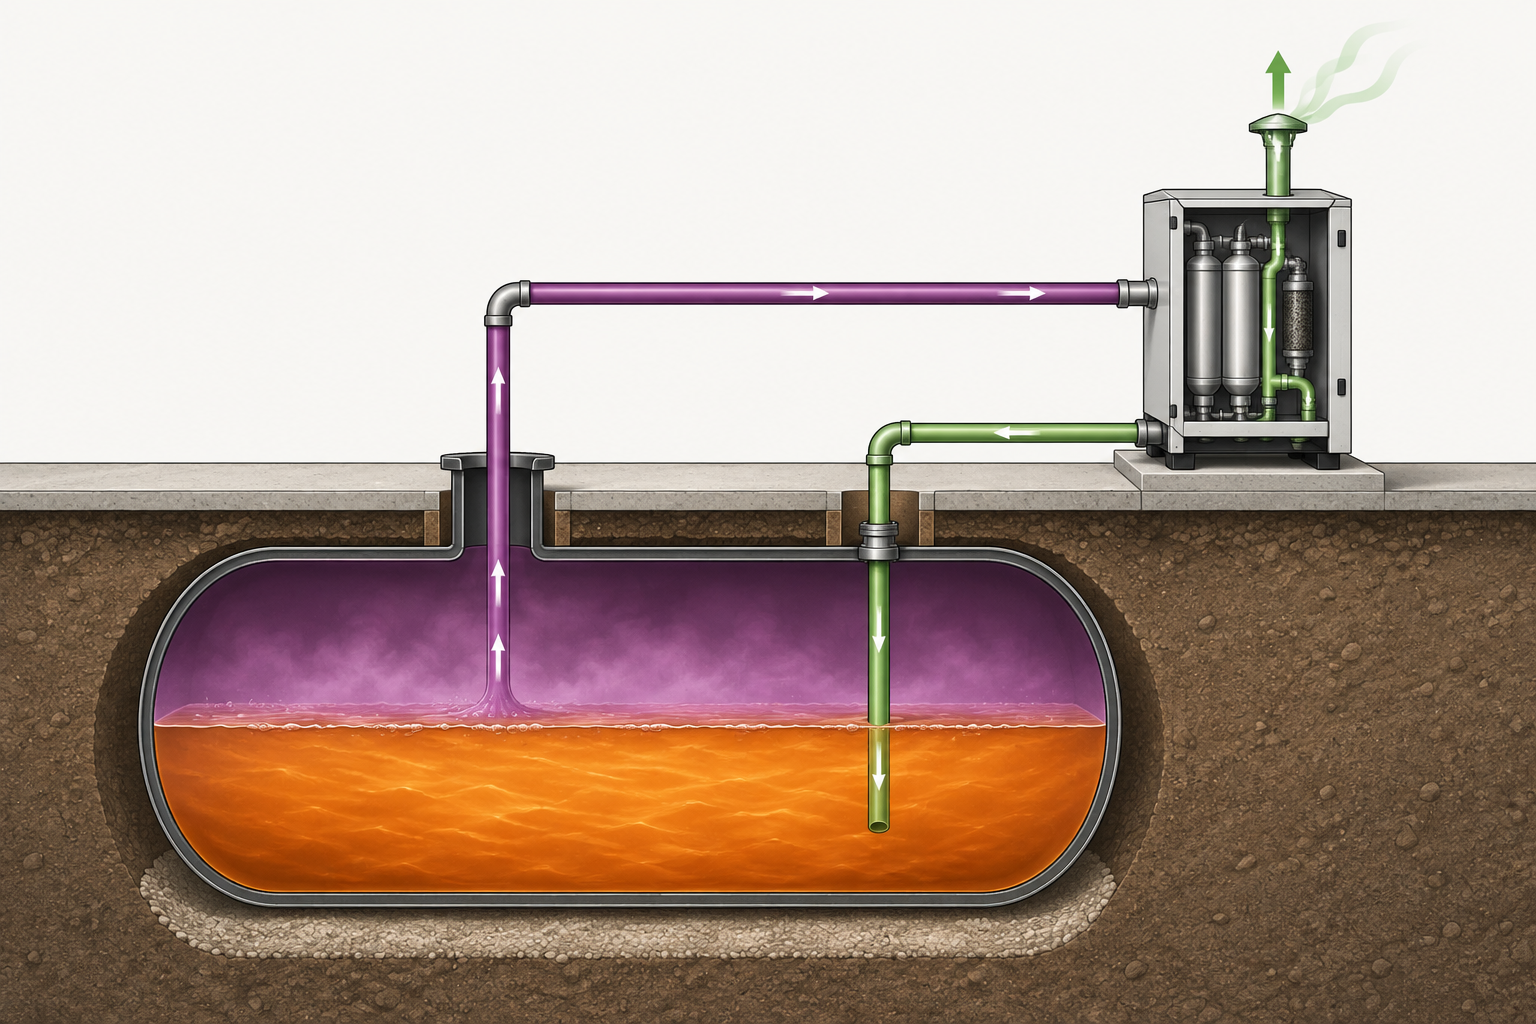
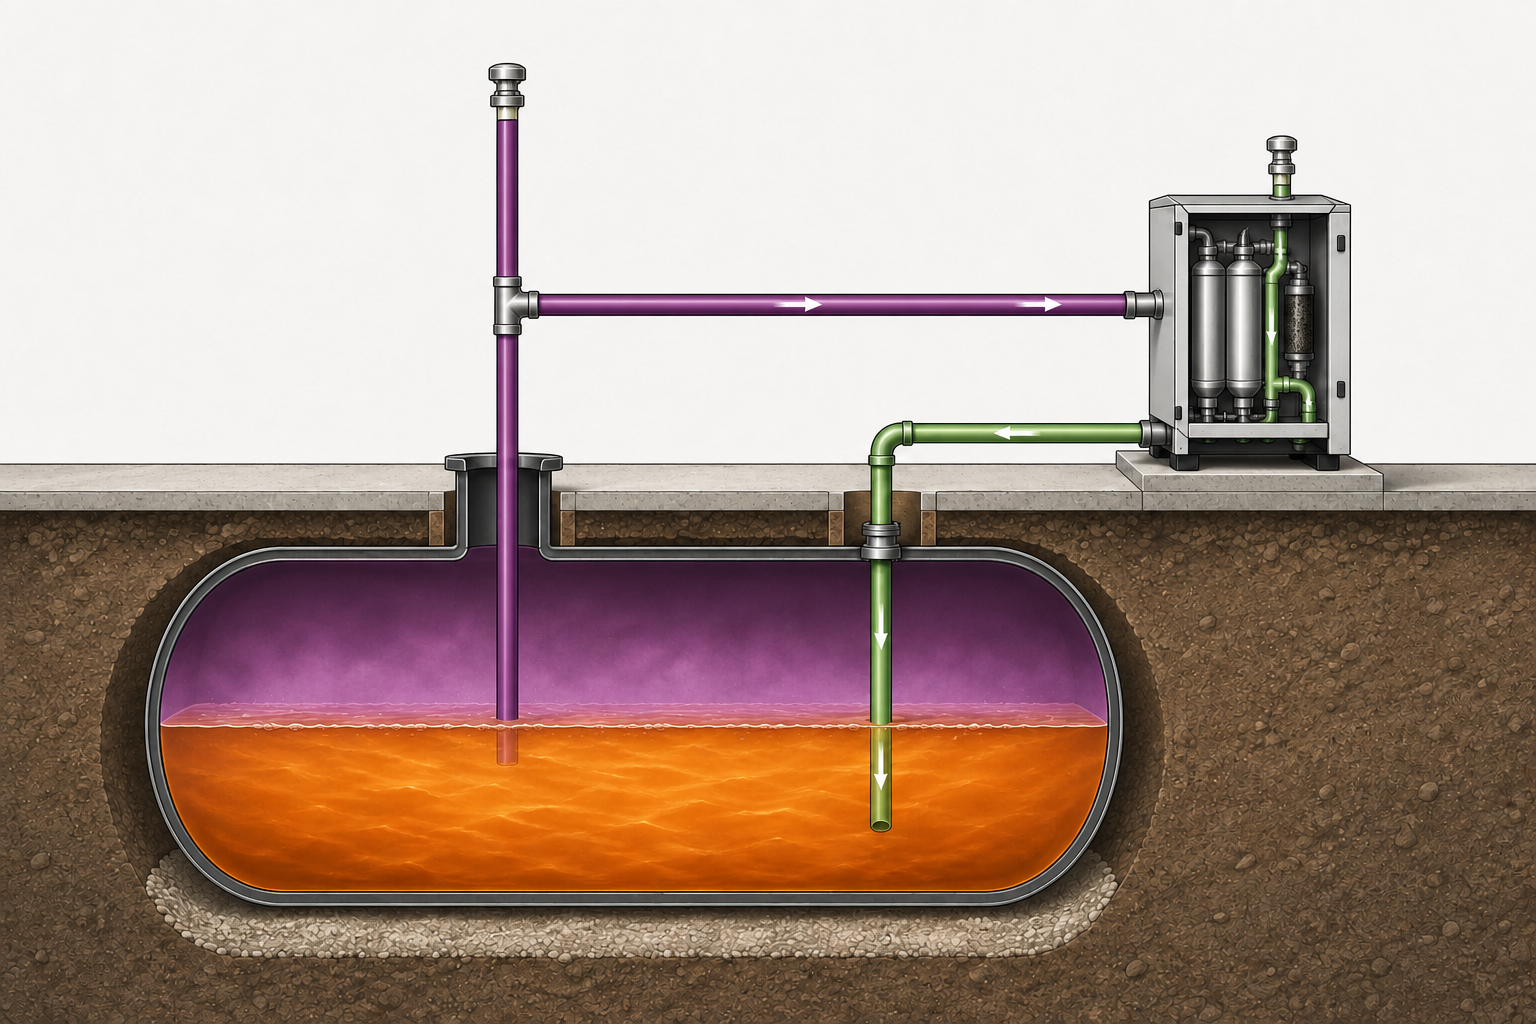
Correct tank vent diagram and transition

diff --git a/probleme.html b/probleme.html
@@ -16,7 +16,7 @@
 			<article class="problem-card"><span class="problem-icon" aria-hidden="true"><svg viewBox="0 0 24 24"><path d="M4 17h16M6 17V8h12v9M9 8V5h6v3"/><path d="M8 21h8"/></svg></span><h3>Remplissage</h3><p>Une livraison déplace les vapeurs présentes dans le réservoir.</p></article>
 			<article class="problem-card"><span class="problem-icon" aria-hidden="true"><svg viewBox="0 0 24 24"><circle cx="12" cy="12" r="8"/><path d="M12 8v4l3 2"/></svg></span><h3>Stockage</h3><p>Le phénomène continue tant que l'essence reste en cuve.</p></article>
 		</div></section>
-		<section class="problem-section problem-flow"><div class="problem-flow__copy"><p class="eyebrow">Une perte invisible</p><h2 class="page-title">Ce qui sort par l'évent ne revient pas dans le stock.</h2><p>Les vapeurs contiennent encore des hydrocarbures valorisables. Sans traitement, elles sont évacuées dans l'air au lieu de redevenir du carburant liquide.</p><div class="flow-legend"><span><i class="is-vapor"></i>Vapeurs</span><span><i class="is-fuel"></i>Carburant récupéré</span><span><i class="is-air"></i>Air traité</span></div></div><figure class="problem-diagram"><img src="./assets/schema-cuve-gevlr-ii.png" alt="Schéma montrant les vapeurs aspirées depuis l'évent d'une cuve de stockage, traitées par la GEVLR-II, puis retournées sous forme de carburant liquide" loading="lazy"><figcaption>La GEVLR-II agit sur les vapeurs de la cuve de stockage, via son réseau d'évent.</figcaption></figure></section>
+		<section class="problem-section problem-flow"><div class="problem-flow__copy"><p class="eyebrow">Une perte invisible</p><h2 class="page-title">Ce qui sort par l'évent ne revient pas dans le stock.</h2><p>Les vapeurs contiennent encore des hydrocarbures valorisables. Sans traitement, elles sont évacuées dans l'air au lieu de redevenir du carburant liquide.</p><div class="flow-legend"><span><i class="is-vapor"></i>Vapeurs</span><span><i class="is-fuel"></i>Carburant récupéré</span><span><i class="is-air"></i>Air traité</span></div></div><figure class="problem-diagram"><img src="./assets/schema-cuve-gevlr-ii.png?v=2" alt="Schéma montrant la GEVLR-II raccordée à l'évent à soupape d'une cuve de stockage et le retour du carburant liquide vers la cuve" loading="lazy"><figcaption>La GEVLR-II se raccorde à la conduite d'évent de la cuve de stockage.</figcaption></figure></section>
 		<section class="problem-section"><p class="eyebrow">Trois impacts</p><h2 class="page-title">Un enjeu économique, environnemental et humain.</h2><div class="impact-grid">
 			<article class="impact-card impact-card--fuel"><span class="impact-card__number">01</span><div><h3>Carburant perdu</h3><p>Une fraction du produit acheté quitte la cuve sans être vendue.</p></div></article>
 			<article class="impact-card impact-card--planet"><span class="impact-card__number">02</span><div><h3>Pollution de l'air</h3><p>Les COV participent à la formation d'ozone au niveau du sol et de polluants secondaires.</p></div></article>
@@ -26,7 +26,7 @@
 			<article class="risk-panel"><span class="problem-icon" aria-hidden="true"><svg viewBox="0 0 24 24"><path d="M12 3 2.8 20h18.4L12 3Z"/><path d="M12 9v5m0 3v.1"/></svg></span><p class="eyebrow">Environnement</p><h2>Les COV ne disparaissent pas.</h2><ul><li>Dégradation de la qualité de l'air</li><li>Formation d'ozone troposphérique</li><li>Effets sur la végétation et les cultures</li><li>Odeurs autour de la station</li></ul><a class="source-link" href="https://www.epa.gov/ozone-pollution-and-your-patients-health/what-ozone" target="_blank" rel="noopener">Source environnementale ↗</a></article>
 			<article class="risk-panel"><span class="problem-icon" aria-hidden="true"><svg viewBox="0 0 24 24"><path d="M12 21s-7-4.4-7-10a4 4 0 0 1 7-2.7A4 4 0 0 1 19 11c0 5.6-7 10-7 10Z"/><path d="M8 13h2l1-2 2 4 1-2h2"/></svg></span><p class="eyebrow">Santé</p><h2>Respirer ces vapeurs n'est pas anodin.</h2><ul><li>Irritation des yeux et des voies respiratoires</li><li>Maux de tête, vertiges et nausées</li><li>Effets possibles sur le système nerveux</li><li>Présence de benzène, substance cancérogène</li></ul><div class="source-links"><a class="source-link" href="https://www.inrs.fr/media.html?refINRS=ED+872" target="_blank" rel="noopener">INRS ↗</a><a class="source-link" href="https://www.who.int/publications/i/item/WHO-CED-PHE-EPE-19.4.2" target="_blank" rel="noopener">OMS ↗</a></div></article>
 		</section>
-		<section class="problem-section problem-answer"><p class="eyebrow">La réponse</p><h2 class="page-title">Récupérer avant de rejeter.</h2><div class="answer-steps"><span><b>1</b>Détecter la pression</span><span><b>2</b>Aspirer les vapeurs</span><span><b>3</b>Refroidir et condenser</span><span><b>4</b>Retourner l'essence en cuve</span></div><p>La GEVLR-II se raccorde au réseau d'évent de la cuve et fonctionne automatiquement selon les seuils définis.</p><div class="problem-actions"><a class="btn" href="./technologie.html">Découvrir la technologie</a><a class="text-link" href="./contact.html#contact-form">Demander une étude →</a></div></section>
+		<section class="problem-section problem-answer"><p class="eyebrow">Et maintenant&nbsp;?</p><h2 class="page-title">Ces vapeurs ne sont pas une fatalité.</h2><div class="problem-actions"><a class="btn" href="./technologie.html">Découvrir la technologie →</a></div></section>
 	</div></section>
 </main>
 <footer class="page-footer"><div class="page-footer__inner"><a href="./index.html">← Accueil</a><a href="./technologie.html">La technologie →</a></div></footer><div class="boot" id="boot"><div class="boot__inner"><p class="boot__mark">HCTECH</p><div class="boot__bar"><i></i></div><p class="boot__note" data-boot-note>initialisation</p></div></div></body></html>
